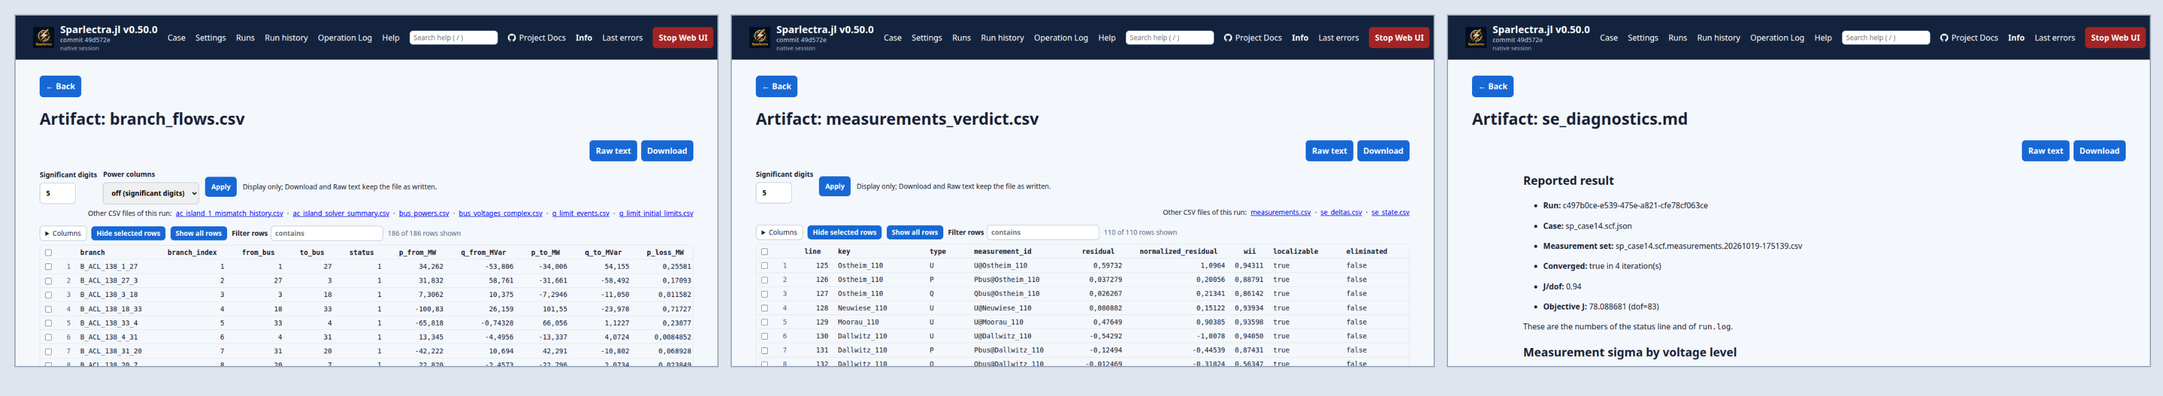
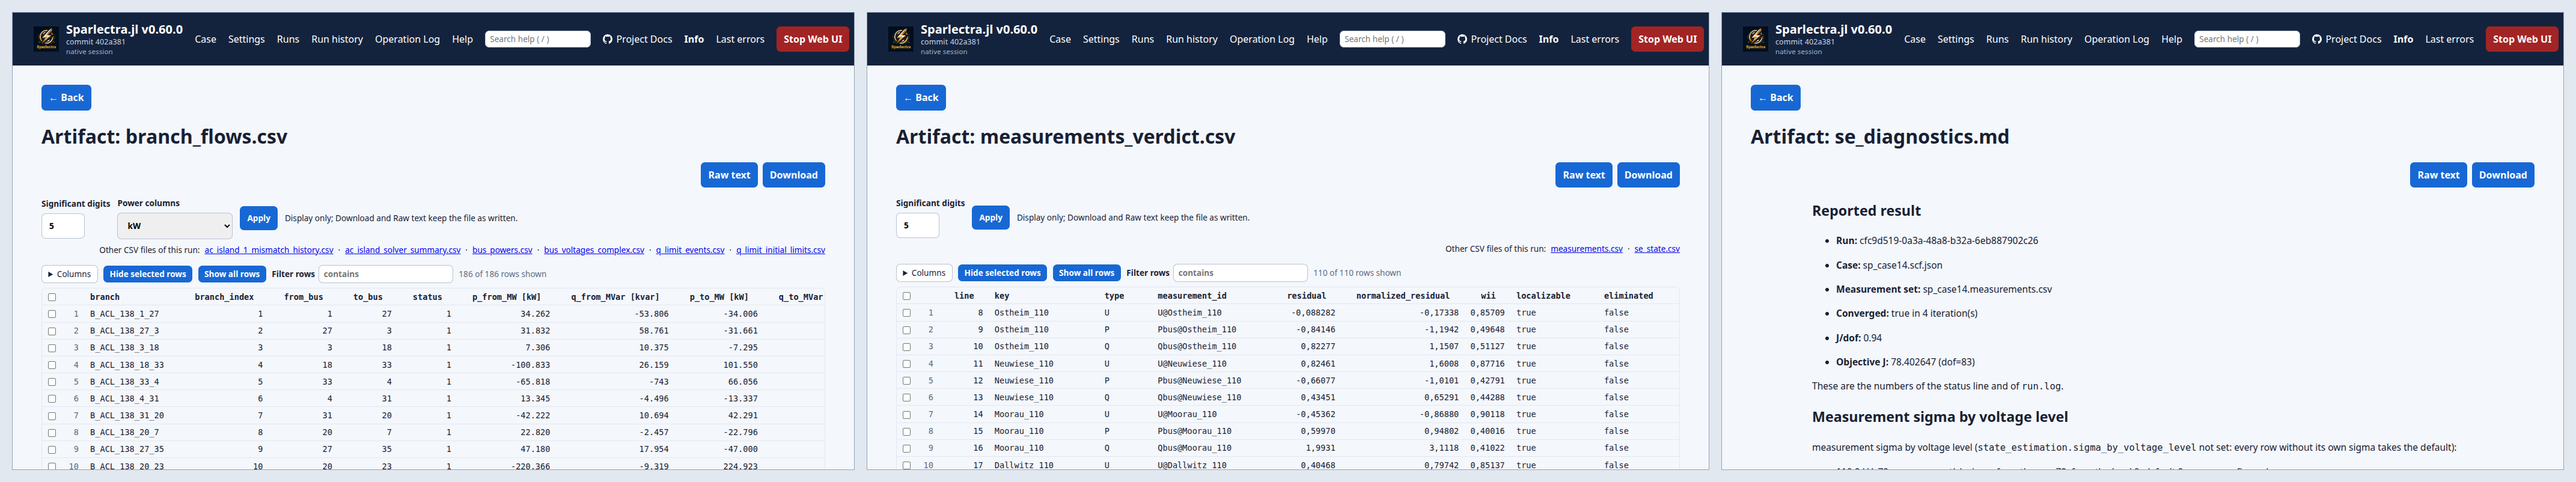
Update Web UI screenshots and add the 0.60.0 changelog (#528)

diff --git a/docs/src/changelog.md b/docs/src/changelog.md
@@ -1,3 +1,21 @@
+# Version 0.60.0 - 2026-10-20
+
+Quasi-stationary time series (QSTS), dynamic unit data.
+
+## Breaking
+- SCF 1.3: files written by 0.60.0, including the shipped cases, cannot be read by 0.50.0. 0.60.0 still reads 1.0 to 1.2.
+## Added
+- QSTS on SCF time series (one zip: base case plus step deltas) and on a series of CGMES snapshots: snapshot mode (independent steps, parallel) and sequential mode (tap and bank states carried over), event lists, switching counts and limit violations, a time-series chart per element in the Web UI. See [QSTS](qsts.md).
+- Dynamic unit data `DynamicData` (inertia, droop, reserves, unit type) on generators, carried in SCF and read from the CGMES DY profile (`cgmes_import.read_dynamics`, default off). No calculation reads it yet. See [Dynamic Data](dynamic_data.md).
+- Measurement tables are bound to CGMES cases by the EQ model id instead of the file name; an assign switch at the Web UI upload binds a table to the selected case.
+## Changed
+- CGMES import: a unit whose `DynamicData` says grid-following is no island slack; an island with only such units is switched off with a warning.
+- The Web UI window opens on the main monitor when the saved position is on a monitor that is no longer connected.
+## Fixed
+- The Web UI sysimage rebuild did not find its build script since the package split.
+- Bus powers of coupler clusters and distributed slack shares in reports and bus CSVs.
+- CGMES: P limits of EquivalentInjection and ExternalNetworkInjection read as delivered; 2W transformer magnetizing split over both terminal arms.
+
 # Version 0.50.0 - 2026-10-18
 
 Measurement table for the state estimation, `addACLine!` in physical units.

diff --git a/README.md b/README.md
@@ -149,6 +149,10 @@ Every run file opens in the browser: CSV as a sortable table, Markdown rendered.
 
 <a href="docs/src/assets/webui_artifacts.png"><img src="docs/src/assets/webui_artifacts.png" alt="Sparlectra Web UI: CSV table, measurement verdict and Markdown report of a run" /></a>
 
+A QSTS run shows its controllers, switching counts and a time-series chart per element.
+
+<a href="docs/src/assets/webui_qsts.png"><img src="docs/src/assets/webui_qsts.png" alt="Sparlectra Web UI: QSTS run with time-series chart" /></a>
+
 ---
 
 ## Documentation

diff --git a/docs/src/index.md b/docs/src/index.md
@@ -163,6 +163,12 @@ Every run file opens in the browser: CSV as a sortable table, Markdown rendered.
 <a href="assets/webui_artifacts.png"><img src="assets/webui_artifacts.png" alt="Sparlectra Web UI: CSV table, measurement verdict and Markdown report of a run" /></a>
 ```
 
+A QSTS run shows its controllers, switching counts and a time-series chart per element.
+
+```@raw html
+<a href="assets/webui_qsts.png"><img src="assets/webui_qsts.png" alt="Sparlectra Web UI: QSTS run with time-series chart" /></a>
+```
+
 ---
 
 ## Documentation
